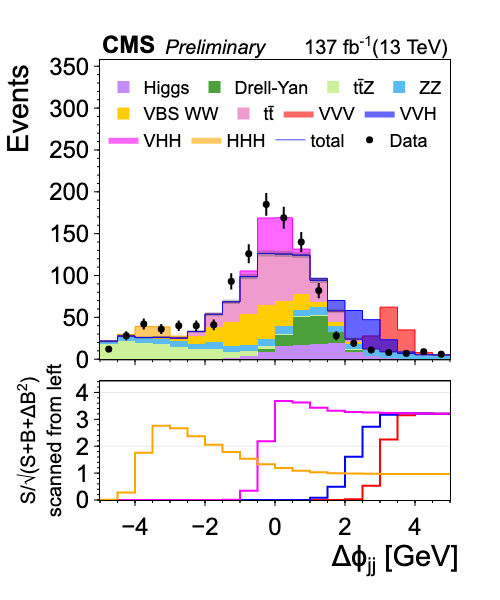
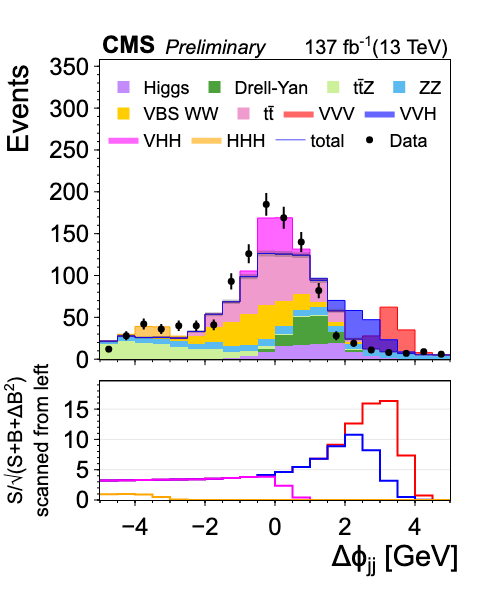
update

Changed region(s): [[0.0, 0.6, 0.9, 0.87], [0.3, 0.69, 0.45, 0.75]]

diff --git a/examples/example3/plot.html b/examples/example3/plot.html
@@ -9,7 +9,7 @@ window.PlotlyConfig = {MathJaxConfig: 'local'};
 <script src="https://cdn.plot.ly/plotly-2.3.0.min.js"></script>
 
     <div
-        id=06ca97dd-8893-42e6-93cf-f016114df091
+        id=cd3a72f4-a0c4-49c8-bc4e-8b2243d0e42e
         class="plotly-graph-div"
         style="height:600; width:500;">
     </div>
@@ -17,11 +17,11 @@ window.PlotlyConfig = {MathJaxConfig: 'local'};
         
         window.PLOTLYENV = window.PLOTLYENV || {}
         
-        if (document.getElementById('06ca97dd-8893-42e6-93cf-f016114df091')) {
+        if (document.getElementById('cd3a72f4-a0c4-49c8-bc4e-8b2243d0e42e')) {
     Plotly.newPlot(
-        '06ca97dd-8893-42e6-93cf-f016114df091',
-        [{"showlegend":false,"xaxis":"x","type":"scatter","name":"S/√(S+B+ΔB<sup>2</sup>)<br>scanned from left","yaxis":"y"},{"showlegend":false,"xaxis":"x2","type":"scatter","name":"ratiopanel_minorticks","yaxis":"y2"},{"showlegend":false,"xaxis":"x3","type":"scatter","name":"ratiopanel_unityline","yaxis":"y3"},{"showlegend":false,"xaxis":"x4","type":"scatter","name":"mainpanel_majorticks","yaxis":"y4"},{"showlegend":false,"xaxis":"x5","type":"scatter","name":"mainpanel_minorticks","yaxis":"y5"},{"showlegend":false,"mode":"lines","xaxis":"x","fillcolor":"blue","name":"VVV","fill":"","opacity":1,"yaxis":"y","marker":{"size":0},"line":{"color":"rgba(255, 0, 0, 1)","shape":"hv","width":2},"y":[0.0,0.0,0.0,0.0,0.0,0.0,0.0,0.0,0.0,0.0,0.0,0.0,0.0,0.0,0.0261922278728499,0.5269024107255872,2.2465547574718023,3.1482233016958228,3.216614910855627,3.2081616789968335,3.2081616789968335],"type":"scatter","x":[-5.0,-4.5,-4.0,-3.5,-3.0,-2.5,-2.0,-1.5,-1.0,-0.5,0.0,0.5,1.0,1.5,2.0,2.5,3.0,3.5,4.0,4.5,5.0]},{"showlegend":false,"mode":"lines","xaxis":"x","fillcolor":"blue","name":"VVH","fill":"","opacity":1,"yaxis":"y","marker":{"size":0},"line":{"color":"rgba(0, 0, 255, 1)","shape":"hv","width":2},"y":[0.0,0.0,0.0,0.0,0.0,0.0,0.0,0.0,0.0,0.0,0.0,0.0,0.08226610706861108,0.49091201744086715,1.6042739572120561,2.7255816060990257,3.172368389513496,3.2224129901579173,3.216614910855627,3.2081616789968335,3.2081616789968335],"type":"scatter","x":[-5.0,-4.5,-4.0,-3.5,-3.0,-2.5,-2.0,-1.5,-1.0,-0.5,0.0,0.5,1.0,1.5,2.0,2.5,3.0,3.5,4.0,4.5,5.0]},{"showlegend":false,"mode":"lines","xaxis":"x","fillcolor":"blue","name":"VHH","fill":"","opacity":1,"yaxis":"y","marker":{"size":0},"line":{"color":"rgba(255, 0, 255, 1)","shape":"hv","width":2},"y":[0.0,0.0,0.0,0.0,0.0,0.0,0.0,0.005954913341754136,0.348511789699801,2.1850487110868912,3.6816830059852017,3.6275323044230374,3.4277544611921282,3.31697309081667,3.2740284841062377,3.2524840168246127,3.2371106015443836,3.225638628786704,3.216614910855627,3.2081616789968335,3.2081616789968335],"type":"scatter","x":[-5.0,-4.5,-4.0,-3.5,-3.0,-2.5,-2.0,-1.5,-1.0,-0.5,0.0,0.5,1.0,1.5,2.0,2.5,3.0,3.5,4.0,4.5,5.0]},{"showlegend":false,"mode":"lines","xaxis":"x","fillcolor":"blue","name":"HHH","fill":"","opacity":1,"yaxis":"y","marker":{"size":0},"line":{"color":"rgba(255, 165, 0, 1)","shape":"hv","width":2},"y":[0.012939932784412609,0.28199520948846307,1.757421951295026,2.760117169923733,2.666271692708095,2.373934853263487,2.053638734656998,1.7864740025262404,1.5375520133814748,1.3323467750529823,1.1927698723494171,1.0904405724718547,1.0283263383576382,0.9950919272450008,0.9822085452318711,0.9757452050473836,0.9711331804633149,0.9676915886360109,0.9649844732566878,0.9624485036990499,0.9624485036990499],"type":"scatter","x":[-5.0,-4.5,-4.0,-3.5,-3.0,-2.5,-2.0,-1.5,-1.0,-0.5,0.0,0.5,1.0,1.5,2.0,2.5,3.0,3.5,4.0,4.5,5.0]},{"x":[-4.75,-4.25,-3.75,-3.25,-2.75,-2.25,-1.75,-1.25,-0.75,-0.25,0.25,0.75,1.25,1.75,2.25,2.75,3.25,3.75,4.25,4.75],"xaxis":"x4","y":[0.0,0.0,0.0,0.0,0.0,0.1,0.7000000000000001,2.0,4.3,9.0,16.1,16.8,17.8,19.0,8.4,3.3000000000000003,1.7000000000000002,0.8,0.0,0.0,0.0],"type":"bar","name":"Higgs","opacity":1.0,"yaxis":"y4","legendgroup":1,"marker":{"color":"rgba(196 , 139 , 253 , 1)"}},{"x":[-4.75,-4.25,-3.75,-3.25,-2.75,-2.25,-1.75,-1.25,-0.75,-0.25,0.25,0.75,1.25,1.75,2.25,2.75,3.25,3.75,4.25,4.75],"xaxis":"x4","y":[0.0,0.0,0.0,0.0,0.0,0.0,0.0,0.0,0.0,2.8000000000000003,12.3,33.6,34.4,13.4,3.0,0.5,0.0,0.0,0.0,0.0,0.0],"type":"bar","name":"Drell-Yan","opacity":1.0,"yaxis":"y4","legendgroup":2,"marker":{"color":"rgba(77 , 161 , 60 , 1)"}},{"x":[-4.75,-4.25,-3.75,-3.25,-2.75,-2.25,-1.75,-1.25,-0.75,-0.25,0.25,0.75,1.25,1.75,2.25,2.75,3.25,3.75,4.25,4.75],"xaxis":"x4","y":[17.6,21.5,19.700000000000003,17.900000000000002,14.100000000000001,12.3,11.8,7.0,5.300000000000001,4.0,1.8,1.5,0.5,0.2,0.2,0.1,0.0,0.0,0.0,0.0,0.0],"type":"bar","name":"tt̄Z","opacity":1.0,"yaxis":"y4","legendgroup":3,"marker":{"color":"rgba(205 , 240 , 155 , 1)"}},{"x":[-4.75,-4.25,-3.75,-3.25,-2.75,-2.25,-1.75,-1.25,-0.75,-0.25,0.25,0.75,1.25,1.75,2.25,2.75,3.25,3.75,4.25,4.75],"xaxis":"x4","y":[3.9000000000000004,6.1000000000000005,5.9,6.7,7.1000000000000005,6.2,8.200000000000001,6.6000000000000005,7.2,8.9,9.200000000000001,7.0,9.1,7.300000000000001,6.800000000000001,6.6000000000000005,6.800000000000001,6.0,5.4,5.1000000000000005,5.1000000000000005],"type":"bar","name":"ZZ","opacity":1.0,"yaxis":"y4","legendgroup":4,"marker":{"color":"rgba(91 , 187 , 241 , 1)"}},{"x":[-4.75,-4.25,-3.75,-3.25,-2.75,-2.25,-1.75,-1.25,-0.75,-0.25,0.25,0.75,1.25,1.75,2.25,2.75,3.25,3.75,4.25,4.75],"xaxis":"x4","y":[0.0,0.1,0.30000000000000004,0.9,2.8000000000000003,9.200000000000001,18.3,28.400000000000002,37.5,39.6,30.6,19.1,6.6000000000000005,4.4,1.8,0.30000000000000004,0.1,0.0,0.0,0.0,0.0],"type":"bar","name":"VBS WW","opacity":1.0,"yaxis":"y4","legendgroup":5,"marker":{"color":"rgba(255, 205, 0, 1)"}},{"x":[-4.75,-4.25,-3.75,-3.25,-2.75,-2.25,-1.75,-1.25,-0.75,-0.25,0.25,0.75,1.25,1.75,2.25,2.75,3.25,3.75,4.25,4.75],"xaxis":"x4","y":[0.0,0.1,0.0,0.6000000000000001,1.3,5.300000000000001,14.700000000000001,24.6,44.400000000000006,62.0,55.6,46.300000000000004,25.8,13.5,3.8000000000000003,1.6,0.4,0.0,0.0,0.0,0.0],"type":"bar","name":"tt̄","opacity":1.0,"yaxis":"y4","legendgroup":6,"marker":{"color":"rgba(240 , 155 , 205 , 1)"}},{"showlegend":false,"mode":"lines","xaxis":"x4","fillcolor":"blue","name":"VVV","fill":"","opacity":1,"yaxis":"y4","legendgroup":-201,"marker":{"size":0},"line":{"color":"rgba(255, 0, 0, 1)","shape":"hv","width":1},"y":[21.5,27.800000000000004,25.900000000000002,26.1,25.300000000000004,33.1,53.7,68.60000000000001,98.7,126.30000000000001,125.6,124.30000000000001,94.19999999999999,57.800000000000004,24.800000000000004,27.800000000000004,62.2,35.0,7.800000000000001,5.1000000000000005,5.1000000000000005],"type":"scatter","x":[-5.0,-4.5,-4.0,-3.5,-3.0,-2.5,-2.0,-1.5,-1.0,-0.5,0.0,0.5,1.0,1.5,2.0,2.5,3.0,3.5,4.0,4.5,5.0]},{"showlegend":"VVV","mode":"lines","xaxis":"x4","fillcolor":"rgba(255, 0, 0, 0.6)","name":"VVV","fill":"tonexty","opacity":0.7,"yaxis":"y4","marker":{"color":"rgba(255, 0, 0, 1)","size":0},"line":{"color":"blue","shape":"hv","width":0},"y":[21.5,27.800000000000004,25.900000000000002,26.1,25.300000000000004,33.1,53.7,68.60000000000001,98.7,126.30000000000001,125.6,124.30000000000001,94.19999999999999,57.800000000000004,24.000000000000004,12.400000000000002,9.0,6.8,5.4,5.1000000000000005,5.1000000000000005],"type":"scatter","x":[-5.0,-4.5,-4.0,-3.5,-3.0,-2.5,-2.0,-1.5,-1.0,-0.5,0.0,0.5,1.0,1.5,2.0,2.5,3.0,3.5,4.0,4.5,5.0]},{"showlegend":false,"mode":"lines","xaxis":"x4","fillcolor":"blue","name":"VVH","fill":"","opacity":1,"yaxis":"y4","legendgroup":-202,"marker":{"size":0},"line":{"color":"rgba(0, 0, 255, 1)","shape":"hv","width":1},"y":[21.5,27.800000000000004,25.900000000000002,26.1,25.300000000000004,33.1,53.7,68.60000000000001,98.7,126.30000000000001,125.6,124.30000000000001,96.6,70.2,58.2,47.2,23.200000000000003,8.7,5.5,5.1000000000000005,5.1000000000000005],"type":"scatter","x":[-5.0,-4.5,-4.0,-3.5,-3.0,-2.5,-2.0,-1.5,-1.0,-0.5,0.0,0.5,1.0,1.5,2.0,2.5,3.0,3.5,4.0,4.5,5.0]},{"showlegend":"VVH","mode":"lines","xaxis":"x4","fillcolor":"rgba(0, 0, 255, 0.6)","name":"VVH","fill":"tonexty","opacity":0.7,"yaxis":"y4","marker":{"color":"rgba(0, 0, 255, 1)","size":0},"line":{"color":"blue","shape":"hv","width":0},"y":[21.5,27.800000000000004,25.900000000000002,26.1,25.300000000000004,33.1,53.7,68.60000000000001,98.7,126.30000000000001,125.6,124.30000000000001,94.19999999999999,57.800000000000004,24.000000000000004,12.400000000000002,9.0,6.8,5.4,5.1000000000000005,5.1000000000000005],"type":"scatter","x":[-5.0,-4.5,-4.0,-3.5,-3.0,-2.5,-2.0,-1.5,-1.0,-0.5,0.0,0.5,1.0,1.5,2.0,2.5,3.0,3.5,4.0,4.5,5.0]},{"showlegend":false,"mode":"lines","xaxis":"x4","fillcolor":"blue","name":"VHH","fill":"","opacity":1,"yaxis":"y4","legendgroup":-203,"marker":{"size":0},"line":{"color":"rgba(255, 0, 255, 1)","shape":"hv","width":1},"y":[21.5,27.800000000000004,25.900000000000002,26.1,25.300000000000004,33.1,53.7,68.7,105.4,168.70000000000002,169.0,131.5,94.39999999999999,57.800000000000004,24.000000000000004,12.400000000000002,9.0,6.8,5.4,5.1000000000000005,5.1000000000000005],"type":"scatter","x":[-5.0,-4.5,-4.0,-3.5,-3.0,-2.5,-2.0,-1.5,-1.0,-0.5,0.0,0.5,1.0,1.5,2.0,2.5,3.0,3.5,4.0,4.5,5.0]},{"showlegend":"VHH","mode":"lines","xaxis":"x4","fillcolor":"rgba(255, 0, 255, 0.6)","name":"VHH","fill":"tonexty","opacity":0.7,"yaxis":"y4","marker":{"color":"rgba(255, 0, 255, 1)","size":0},"line":{"color":"blue","shape":"hv","width":0},"y":[21.5,27.800000000000004,25.900000000000002,26.1,25.300000000000004,33.1,53.7,68.60000000000001,98.7,126.30000000000001,125.6,124.30000000000001,94.19999999999999,57.800000000000004,24.000000000000004,12.400000000000002,9.0,6.8,5.4,5.1000000000000005,5.1000000000000005],"type":"scatter","x":[-5.0,-4.5,-4.0,-3.5,-3.0,-2.5,-2.0,-1.5,-1.0,-0.5,0.0,0.5,1.0,1.5,2.0,2.5,3.0,3.5,4.0,4.5,5.0]},{"showlegend":false,"mode":"lines","xaxis":"x4","fillcolor":"blue","name":"HHH","fill":"","opacity":1,"yaxis":"y4","legendgroup":-204,"marker":{"size":0},"line":{"color":"rgba(255, 165, 0, 1)","shape":"hv","width":1},"y":[21.56,29.720000000000006,39.160000000000004,38.64,27.520000000000003,33.1,53.7,68.60000000000001,98.7,126.30000000000001,125.6,124.30000000000001,94.19999999999999,57.800000000000004,24.000000000000004,12.400000000000002,9.0,6.8,5.4,5.1000000000000005,5.1000000000000005],"type":"scatter","x":[-5.0,-4.5,-4.0,-3.5,-3.0,-2.5,-2.0,-1.5,-1.0,-0.5,0.0,0.5,1.0,1.5,2.0,2.5,3.0,3.5,4.0,4.5,5.0]},{"showlegend":"HHH","mode":"lines","xaxis":"x4","fillcolor":"rgba(255, 165, 0, 0.6)","name":"HHH","fill":"tonexty","opacity":0.7,"yaxis":"y4","marker":{"color":"rgba(255, 165, 0, 1)","size":0},"line":{"color":"blue","shape":"hv","width":0},"y":[21.5,27.800000000000004,25.900000000000002,26.1,25.300000000000004,33.1,53.7,68.60000000000001,98.7,126.30000000000001,125.6,124.30000000000001,94.19999999999999,57.800000000000004,24.000000000000004,12.400000000000002,9.0,6.8,5.4,5.1000000000000005,5.1000000000000005],"type":"scatter","x":[-5.0,-4.5,-4.0,-3.5,-3.0,-2.5,-2.0,-1.5,-1.0,-0.5,0.0,0.5,1.0,1.5,2.0,2.5,3.0,3.5,4.0,4.5,5.0]},{"showlegend":false,"mode":"lines","xaxis":"x4","fillcolor":"blue","name":"total","fill":"","opacity":0.7,"yaxis":"y4","marker":{"size":0},"line":{"color":"blue","shape":"hv","width":1},"y":[21.5,27.800000000000004,25.900000000000002,26.1,25.300000000000004,33.1,53.7,68.60000000000001,98.7,126.30000000000001,125.6,124.30000000000001,94.19999999999999,57.800000000000004,24.000000000000004,12.400000000000002,9.0,6.8,5.4,5.1000000000000005,5.1000000000000005],"type":"scatter","x":[-5.0,-4.5,-4.0,-3.5,-3.0,-2.5,-2.0,-1.5,-1.0,-0.5,0.0,0.5,1.0,1.5,2.0,2.5,3.0,3.5,4.0,4.5,5.0]},{"showlegend":false,"mode":"lines","line":{"shape":"hv","width":0},"xaxis":"x4","x":[-5.0,-4.5,-4.0,-3.5,-3.0,-2.5,-2.0,-1.5,-1.0,-0.5,0.0,0.5,1.0,1.5,2.0,2.5,3.0,3.5,4.0,4.5,5.0],"y":[22.966287829861518,29.46733320005331,27.50934769394311,27.715549442140354,26.890597372058693,34.91934053986603,56.017326045251295,71.21916017074177,101.841655614481,129.8538711287834,129.14400902933386,127.82562051276085,97.26920185064455,60.20416305603427,25.549193338482972,13.513552872566006,9.948683298050513,7.624621125123532,6.134846922834954,5.814142842854285,5.814142842854285],"type":"scatter","name":"total +1σ","yaxis":"y4","marker":{"color":"#444"}},{"showlegend":false,"mode":"lines","xaxis":"x4","fillcolor":"rgba(68, 68, 68, 0.3)","name":"total -1σ","fill":"tonexty","yaxis":"y4","marker":{"color":"#444"},"line":{"shape":"hv","width":0},"y":[20.033712170138482,26.132666799946698,24.290652306056895,24.48445055785965,23.709402627941316,31.280659460133975,51.38267395474871,65.98083982925824,95.558344385519,122.74612887121664,122.05599097066613,120.77437948723917,91.13079814935543,55.39583694396574,22.450806661517035,11.286447127433998,8.051316701949487,5.975378874876467,4.665153077165047,4.385857157145716,4.385857157145716],"type":"scatter","x":[-5.0,-4.5,-4.0,-3.5,-3.0,-2.5,-2.0,-1.5,-1.0,-0.5,0.0,0.5,1.0,1.5,2.0,2.5,3.0,3.5,4.0,4.5,5.0]},{"showlegend":true,"mode":"lines","xaxis":"x4","fillcolor":"blue","name":"total","fill":"","opacity":0.7,"yaxis":"y4","legendgroup":-100,"marker":{"size":0},"line":{"color":"blue","width":1,"shape":"hv"},"y":[21.5,27.800000000000004,25.900000000000002,26.1,25.300000000000004,33.1,53.7,68.60000000000001,98.7,126.30000000000001,125.6,124.30000000000001,94.19999999999999,57.800000000000004,24.000000000000004,12.400000000000002,9.0,6.8,5.4,5.1000000000000005,5.1000000000000005],"type":"scatter","x":[-5.0,-4.5,-4.0,-3.5,-3.0,-2.5,-2.0,-1.5,-1.0,-0.5,0.0,0.5,1.0,1.5,2.0,2.5,3.0,3.5,4.0,4.5,5.0]},{"mode":"markers","xaxis":"x4","name":"Data","opacity":1,"error_y":{"array":[3.4641016151377544,5.291502622129181,6.48074069840786,6.0,6.324555320336759,6.324555320336759,6.4031242374328485,9.643650760992955,11.224972160321824,13.601470508735444,13.0,11.832159566199232,9.055385138137417,5.291502622129181,4.358898943540674,3.3166247903554,2.8284271247461903,2.6457513110645907,3.0,2.449489742783178],"width":0},"yaxis":"y4","legendgroup":-1,"marker":{"color":"black","size":7},"y":[12.0,28.0,42.0,36.0,40.0,40.0,41.0,93.0,126.0,185.0,169.0,140.0,82.0,28.0,19.0,11.0,8.0,7.0,9.0,6.0],"type":"scatter","x":[-4.75,-4.25,-3.75,-3.25,-2.75,-2.25,-1.75,-1.25,-0.75,-0.25,0.25,0.75,1.25,1.75,2.25,2.75,3.25,3.75,4.25,4.75]}],
-        {"xaxis":{"ticklen":5,"ticks":"outside","range":[-5.0,5.0],"domain":[0,1],"nticks":10,"color":"black","showgrid":false,"zeroline":false,"title":{"standoff":1,"text":"&nbsp;&nbsp;&nbsp;&nbsp;&nbsp;&nbsp;&nbsp;&nbsp;&nbsp;&nbsp;&nbsp;&nbsp;&nbsp;&nbsp;&nbsp;&nbsp;&nbsp;&nbsp;&nbsp;&nbsp;&nbsp;&nbsp;&nbsp;&nbsp;&nbsp;&nbsp;&nbsp;&nbsp;&nbsp;&nbsp;Δϕ<sub>jj</sub> [GeV]"},"linewidth":1,"mirror":true},"bargap":0,"template":"simple_white","height":600,"yaxis4":{"ticklen":5,"ticks":"outside","range":[0.0,357.4826469157238],"domain":[0.32,1.0],"nticks":8,"color":"black","showgrid":false,"zeroline":false,"title":{"standoff":1,"text":"&nbsp;&nbsp;&nbsp;&nbsp;&nbsp;&nbsp;&nbsp;&nbsp;&nbsp;&nbsp;&nbsp;&nbsp;&nbsp;&nbsp;&nbsp;&nbsp;&nbsp;&nbsp;&nbsp;&nbsp;&nbsp;&nbsp;&nbsp;&nbsp;&nbsp;Events"},"linewidth":1,"mirror":true,"anchor":"x4"},"yaxis":{"ticklen":5,"ticks":"outside","range":[0.0,4.4180196071822415],"domain":[0.0,0.27],"nticks":8,"color":"black","showgrid":false,"zeroline":false,"title":{"font":{"size":20},"standoff":1,"text":"S/√(S+B+ΔB<sup>2</sup>)<br>scanned from left"},"linewidth":1,"mirror":true},"yaxis2":{"showticklabels":false,"ticklen":2,"overlaying":"y","ticks":"outside","range":[0.0,4.4180196071822415],"domain":[0.0,0.27],"nticks":32,"color":"black","showgrid":false,"zeroline":false,"linewidth":1,"mirror":true,"matches":"y"},"xaxis3":{"showticklabels":false,"ticklen":2,"overlaying":"x","ticks":"outside","range":[-5.0,5.0],"domain":[0,1],"nticks":40,"color":"black","showgrid":false,"zeroline":false,"linewidth":1,"mirror":true,"matches":"x"},"legend":{"yanchor":"top","xanchor":"center","itemwidth":0,"y":0.98,"font":{"color":"black","family":"Arial","size":18},"bgcolor":"rgba(255,255,255,0.3)","tracegroupgap":0,"orientation":"h","traceorder":"grouped","x":0.5},"barmode":"stack","autosize":false,"yaxis3":{"showticklabels":false,"ticklen":2,"overlaying":"y","ticks":"outside","range":[0.0,4.4180196071822415],"domain":[0.0,0.27],"nticks":4,"color":"black","showgrid":true,"zeroline":false,"linewidth":1,"mirror":true,"matches":"y"},"yaxis5":{"showticklabels":false,"ticklen":2,"overlaying":"y4","ticks":"outside","range":[0.0,4.4180196071822415],"domain":[0.32,1.0],"nticks":40,"color":"black","showgrid":false,"zeroline":false,"linewidth":1,"mirror":true,"matches":"y4","anchor":"x5"},"xaxis4":{"showticklabels":false,"ticklen":5,"ticks":"outside","range":[-5.0,5.0],"domain":[0,1],"nticks":10,"color":"black","showgrid":false,"zeroline":false,"title":{"standoff":1,"text":""},"linewidth":1,"mirror":true,"matches":"x","anchor":"y4"},"font":{"family":"Arial","size":24},"annotations":[{"yanchor":"bottom","xanchor":"left","y":1.0,"font":{"color":"black","size":24},"yref":"paper","showarrow":false,"text":"<b>CMS</b>","xref":"paper","x":0.0},{"yanchor":"bottom","xanchor":"left","y":1.0,"font":{"color":"black","size":20},"yref":"paper","showarrow":false,"text":"<i>Preliminary</i>","xref":"paper","x":0.18},{"yanchor":"bottom","xanchor":"right","y":1.0,"font":{"color":"black","size":20},"yref":"paper","showarrow":false,"text":"137 fb<sup>-1</sup>(13 TeV)","xref":"paper","x":1.0}],"xaxis2":{"showticklabels":false,"ticklen":2,"overlaying":"x","ticks":"outside","range":[-5.0,5.0],"domain":[0,1],"nticks":40,"color":"black","showgrid":false,"zeroline":false,"linewidth":1,"mirror":true,"matches":"x"},"margin":{"l":100,"b":100,"r":50,"t":60},"xaxis5":{"showticklabels":false,"ticklen":2,"overlaying":"x4","ticks":"outside","range":[-5.0,5.0],"domain":[0,1],"nticks":50,"color":"black","showgrid":false,"zeroline":false,"linewidth":1,"mirror":true,"matches":"x","anchor":"y4"},"width":500},
+        'cd3a72f4-a0c4-49c8-bc4e-8b2243d0e42e',
+        [{"showlegend":false,"xaxis":"x","type":"scatter","name":"S/√(S+B+ΔB<sup>2</sup>)<br>scanned from left","yaxis":"y"},{"showlegend":false,"xaxis":"x2","type":"scatter","name":"ratiopanel_minorticks","yaxis":"y2"},{"showlegend":false,"xaxis":"x3","type":"scatter","name":"ratiopanel_unityline","yaxis":"y3"},{"showlegend":false,"xaxis":"x4","type":"scatter","name":"mainpanel_majorticks","yaxis":"y4"},{"showlegend":false,"xaxis":"x5","type":"scatter","name":"mainpanel_minorticks","yaxis":"y5"},{"showlegend":false,"mode":"lines","xaxis":"x","fillcolor":"blue","name":"VVV","fill":"","opacity":1,"yaxis":"y","marker":{"size":0},"line":{"color":"rgba(255, 0, 0, 1)","shape":"hv","width":2},"y":[3.2081616789968335,3.244257676704409,3.292788950072114,3.340020066900843,3.3897331317309956,3.4401045807689075,3.5095281423214892,3.6316844790130376,3.8080388775336087,4.113798400762006,4.639384821243733,5.431254465935686,6.8247064799516615,9.10975037348554,12.628920507068042,15.94616265310163,16.34053021650932,7.356959663565479,0.7406560798180413,0.0,0.0],"type":"scatter","x":[-5.0,-4.5,-4.0,-3.5,-3.0,-2.5,-2.0,-1.5,-1.0,-0.5,0.0,0.5,1.0,1.5,2.0,2.5,3.0,3.5,4.0,4.5,5.0]},{"showlegend":false,"mode":"lines","xaxis":"x","fillcolor":"blue","name":"VVH","fill":"","opacity":1,"yaxis":"y","marker":{"size":0},"line":{"color":"rgba(0, 0, 255, 1)","shape":"hv","width":2},"y":[3.208161678996834,3.2442576767044096,3.2927889500721146,3.3400200669008435,3.389733131730996,3.440104580768908,3.5095281423214897,3.631684479013038,3.8080388775336096,4.113798400762007,4.639384821243734,5.4312544659356865,6.824706479951662,8.891116364521888,10.759840272021972,8.198127976897007,3.1589091826664792,0.48084703683434504,0.030860669992418384,0.0,0.0],"type":"scatter","x":[-5.0,-4.5,-4.0,-3.5,-3.0,-2.5,-2.0,-1.5,-1.0,-0.5,0.0,0.5,1.0,1.5,2.0,2.5,3.0,3.5,4.0,4.5,5.0]},{"showlegend":false,"mode":"lines","xaxis":"x","fillcolor":"blue","name":"VHH","fill":"","opacity":1,"yaxis":"y","marker":{"size":0},"line":{"color":"rgba(255, 0, 255, 1)","shape":"hv","width":2},"y":[3.2081616789968335,3.244257676704409,3.292788950072114,3.340020066900843,3.3897331317309956,3.4401045807689075,3.5095281423214892,3.6316844790130376,3.8042308386560753,3.83406010951019,2.3568074891918163,0.4019128304792407,0.013649412959903321,0.0,0.0,0.0,0.0,0.0,0.0,0.0,0.0],"type":"scatter","x":[-5.0,-4.5,-4.0,-3.5,-3.0,-2.5,-2.0,-1.5,-1.0,-0.5,0.0,0.5,1.0,1.5,2.0,2.5,3.0,3.5,4.0,4.5,5.0]},{"showlegend":false,"mode":"lines","xaxis":"x","fillcolor":"blue","name":"HHH","fill":"","opacity":1,"yaxis":"y","marker":{"size":0},"line":{"color":"rgba(255, 165, 0, 1)","shape":"hv","width":2},"y":[0.9624485036990499,0.9713307484053,0.9226394638102061,0.4929869618745643,0.07525207552442809,0.0,0.0,0.0,0.0,0.0,0.0,0.0,0.0,0.0,0.0,0.0,0.0,0.0,0.0,0.0,0.0],"type":"scatter","x":[-5.0,-4.5,-4.0,-3.5,-3.0,-2.5,-2.0,-1.5,-1.0,-0.5,0.0,0.5,1.0,1.5,2.0,2.5,3.0,3.5,4.0,4.5,5.0]},{"x":[-4.75,-4.25,-3.75,-3.25,-2.75,-2.25,-1.75,-1.25,-0.75,-0.25,0.25,0.75,1.25,1.75,2.25,2.75,3.25,3.75,4.25,4.75],"xaxis":"x4","y":[0.0,0.0,0.0,0.0,0.0,0.1,0.7000000000000001,2.0,4.3,9.0,16.1,16.8,17.8,19.0,8.4,3.3000000000000003,1.7000000000000002,0.8,0.0,0.0,0.0],"type":"bar","name":"Higgs","opacity":1.0,"yaxis":"y4","legendgroup":1,"marker":{"color":"rgba(196 , 139 , 253 , 1)"}},{"x":[-4.75,-4.25,-3.75,-3.25,-2.75,-2.25,-1.75,-1.25,-0.75,-0.25,0.25,0.75,1.25,1.75,2.25,2.75,3.25,3.75,4.25,4.75],"xaxis":"x4","y":[0.0,0.0,0.0,0.0,0.0,0.0,0.0,0.0,0.0,2.8000000000000003,12.3,33.6,34.4,13.4,3.0,0.5,0.0,0.0,0.0,0.0,0.0],"type":"bar","name":"Drell-Yan","opacity":1.0,"yaxis":"y4","legendgroup":2,"marker":{"color":"rgba(77 , 161 , 60 , 1)"}},{"x":[-4.75,-4.25,-3.75,-3.25,-2.75,-2.25,-1.75,-1.25,-0.75,-0.25,0.25,0.75,1.25,1.75,2.25,2.75,3.25,3.75,4.25,4.75],"xaxis":"x4","y":[17.6,21.5,19.700000000000003,17.900000000000002,14.100000000000001,12.3,11.8,7.0,5.300000000000001,4.0,1.8,1.5,0.5,0.2,0.2,0.1,0.0,0.0,0.0,0.0,0.0],"type":"bar","name":"tt̄Z","opacity":1.0,"yaxis":"y4","legendgroup":3,"marker":{"color":"rgba(205 , 240 , 155 , 1)"}},{"x":[-4.75,-4.25,-3.75,-3.25,-2.75,-2.25,-1.75,-1.25,-0.75,-0.25,0.25,0.75,1.25,1.75,2.25,2.75,3.25,3.75,4.25,4.75],"xaxis":"x4","y":[3.9000000000000004,6.1000000000000005,5.9,6.7,7.1000000000000005,6.2,8.200000000000001,6.6000000000000005,7.2,8.9,9.200000000000001,7.0,9.1,7.300000000000001,6.800000000000001,6.6000000000000005,6.800000000000001,6.0,5.4,5.1000000000000005,5.1000000000000005],"type":"bar","name":"ZZ","opacity":1.0,"yaxis":"y4","legendgroup":4,"marker":{"color":"rgba(91 , 187 , 241 , 1)"}},{"x":[-4.75,-4.25,-3.75,-3.25,-2.75,-2.25,-1.75,-1.25,-0.75,-0.25,0.25,0.75,1.25,1.75,2.25,2.75,3.25,3.75,4.25,4.75],"xaxis":"x4","y":[0.0,0.1,0.30000000000000004,0.9,2.8000000000000003,9.200000000000001,18.3,28.400000000000002,37.5,39.6,30.6,19.1,6.6000000000000005,4.4,1.8,0.30000000000000004,0.1,0.0,0.0,0.0,0.0],"type":"bar","name":"VBS WW","opacity":1.0,"yaxis":"y4","legendgroup":5,"marker":{"color":"rgba(255, 205, 0, 1)"}},{"x":[-4.75,-4.25,-3.75,-3.25,-2.75,-2.25,-1.75,-1.25,-0.75,-0.25,0.25,0.75,1.25,1.75,2.25,2.75,3.25,3.75,4.25,4.75],"xaxis":"x4","y":[0.0,0.1,0.0,0.6000000000000001,1.3,5.300000000000001,14.700000000000001,24.6,44.400000000000006,62.0,55.6,46.300000000000004,25.8,13.5,3.8000000000000003,1.6,0.4,0.0,0.0,0.0,0.0],"type":"bar","name":"tt̄","opacity":1.0,"yaxis":"y4","legendgroup":6,"marker":{"color":"rgba(240 , 155 , 205 , 1)"}},{"showlegend":false,"mode":"lines","xaxis":"x4","fillcolor":"blue","name":"VVV","fill":"","opacity":1,"yaxis":"y4","legendgroup":-201,"marker":{"size":0},"line":{"color":"rgba(255, 0, 0, 1)","shape":"hv","width":1},"y":[21.5,27.800000000000004,25.900000000000002,26.1,25.300000000000004,33.1,53.7,68.60000000000001,98.7,126.30000000000001,125.6,124.30000000000001,94.19999999999999,57.800000000000004,24.800000000000004,27.800000000000004,62.2,35.0,7.800000000000001,5.1000000000000005,5.1000000000000005],"type":"scatter","x":[-5.0,-4.5,-4.0,-3.5,-3.0,-2.5,-2.0,-1.5,-1.0,-0.5,0.0,0.5,1.0,1.5,2.0,2.5,3.0,3.5,4.0,4.5,5.0]},{"showlegend":"VVV","mode":"lines","xaxis":"x4","fillcolor":"rgba(255, 0, 0, 0.6)","name":"VVV","fill":"tonexty","opacity":0.7,"yaxis":"y4","marker":{"color":"rgba(255, 0, 0, 1)","size":0},"line":{"color":"blue","shape":"hv","width":0},"y":[21.5,27.800000000000004,25.900000000000002,26.1,25.300000000000004,33.1,53.7,68.60000000000001,98.7,126.30000000000001,125.6,124.30000000000001,94.19999999999999,57.800000000000004,24.000000000000004,12.400000000000002,9.0,6.8,5.4,5.1000000000000005,5.1000000000000005],"type":"scatter","x":[-5.0,-4.5,-4.0,-3.5,-3.0,-2.5,-2.0,-1.5,-1.0,-0.5,0.0,0.5,1.0,1.5,2.0,2.5,3.0,3.5,4.0,4.5,5.0]},{"showlegend":false,"mode":"lines","xaxis":"x4","fillcolor":"blue","name":"VVH","fill":"","opacity":1,"yaxis":"y4","legendgroup":-202,"marker":{"size":0},"line":{"color":"rgba(0, 0, 255, 1)","shape":"hv","width":1},"y":[21.5,27.800000000000004,25.900000000000002,26.1,25.300000000000004,33.1,53.7,68.60000000000001,98.7,126.30000000000001,125.6,124.30000000000001,96.6,70.2,58.2,47.2,23.200000000000003,8.7,5.5,5.1000000000000005,5.1000000000000005],"type":"scatter","x":[-5.0,-4.5,-4.0,-3.5,-3.0,-2.5,-2.0,-1.5,-1.0,-0.5,0.0,0.5,1.0,1.5,2.0,2.5,3.0,3.5,4.0,4.5,5.0]},{"showlegend":"VVH","mode":"lines","xaxis":"x4","fillcolor":"rgba(0, 0, 255, 0.6)","name":"VVH","fill":"tonexty","opacity":0.7,"yaxis":"y4","marker":{"color":"rgba(0, 0, 255, 1)","size":0},"line":{"color":"blue","shape":"hv","width":0},"y":[21.5,27.800000000000004,25.900000000000002,26.1,25.300000000000004,33.1,53.7,68.60000000000001,98.7,126.30000000000001,125.6,124.30000000000001,94.19999999999999,57.800000000000004,24.000000000000004,12.400000000000002,9.0,6.8,5.4,5.1000000000000005,5.1000000000000005],"type":"scatter","x":[-5.0,-4.5,-4.0,-3.5,-3.0,-2.5,-2.0,-1.5,-1.0,-0.5,0.0,0.5,1.0,1.5,2.0,2.5,3.0,3.5,4.0,4.5,5.0]},{"showlegend":false,"mode":"lines","xaxis":"x4","fillcolor":"blue","name":"VHH","fill":"","opacity":1,"yaxis":"y4","legendgroup":-203,"marker":{"size":0},"line":{"color":"rgba(255, 0, 255, 1)","shape":"hv","width":1},"y":[21.5,27.800000000000004,25.900000000000002,26.1,25.300000000000004,33.1,53.7,68.7,105.4,168.70000000000002,169.0,131.5,94.39999999999999,57.800000000000004,24.000000000000004,12.400000000000002,9.0,6.8,5.4,5.1000000000000005,5.1000000000000005],"type":"scatter","x":[-5.0,-4.5,-4.0,-3.5,-3.0,-2.5,-2.0,-1.5,-1.0,-0.5,0.0,0.5,1.0,1.5,2.0,2.5,3.0,3.5,4.0,4.5,5.0]},{"showlegend":"VHH","mode":"lines","xaxis":"x4","fillcolor":"rgba(255, 0, 255, 0.6)","name":"VHH","fill":"tonexty","opacity":0.7,"yaxis":"y4","marker":{"color":"rgba(255, 0, 255, 1)","size":0},"line":{"color":"blue","shape":"hv","width":0},"y":[21.5,27.800000000000004,25.900000000000002,26.1,25.300000000000004,33.1,53.7,68.60000000000001,98.7,126.30000000000001,125.6,124.30000000000001,94.19999999999999,57.800000000000004,24.000000000000004,12.400000000000002,9.0,6.8,5.4,5.1000000000000005,5.1000000000000005],"type":"scatter","x":[-5.0,-4.5,-4.0,-3.5,-3.0,-2.5,-2.0,-1.5,-1.0,-0.5,0.0,0.5,1.0,1.5,2.0,2.5,3.0,3.5,4.0,4.5,5.0]},{"showlegend":false,"mode":"lines","xaxis":"x4","fillcolor":"blue","name":"HHH","fill":"","opacity":1,"yaxis":"y4","legendgroup":-204,"marker":{"size":0},"line":{"color":"rgba(255, 165, 0, 1)","shape":"hv","width":1},"y":[21.56,29.720000000000006,39.160000000000004,38.64,27.520000000000003,33.1,53.7,68.60000000000001,98.7,126.30000000000001,125.6,124.30000000000001,94.19999999999999,57.800000000000004,24.000000000000004,12.400000000000002,9.0,6.8,5.4,5.1000000000000005,5.1000000000000005],"type":"scatter","x":[-5.0,-4.5,-4.0,-3.5,-3.0,-2.5,-2.0,-1.5,-1.0,-0.5,0.0,0.5,1.0,1.5,2.0,2.5,3.0,3.5,4.0,4.5,5.0]},{"showlegend":"HHH","mode":"lines","xaxis":"x4","fillcolor":"rgba(255, 165, 0, 0.6)","name":"HHH","fill":"tonexty","opacity":0.7,"yaxis":"y4","marker":{"color":"rgba(255, 165, 0, 1)","size":0},"line":{"color":"blue","shape":"hv","width":0},"y":[21.5,27.800000000000004,25.900000000000002,26.1,25.300000000000004,33.1,53.7,68.60000000000001,98.7,126.30000000000001,125.6,124.30000000000001,94.19999999999999,57.800000000000004,24.000000000000004,12.400000000000002,9.0,6.8,5.4,5.1000000000000005,5.1000000000000005],"type":"scatter","x":[-5.0,-4.5,-4.0,-3.5,-3.0,-2.5,-2.0,-1.5,-1.0,-0.5,0.0,0.5,1.0,1.5,2.0,2.5,3.0,3.5,4.0,4.5,5.0]},{"showlegend":false,"mode":"lines","xaxis":"x4","fillcolor":"blue","name":"total","fill":"","opacity":0.7,"yaxis":"y4","marker":{"size":0},"line":{"color":"blue","shape":"hv","width":1},"y":[21.5,27.800000000000004,25.900000000000002,26.1,25.300000000000004,33.1,53.7,68.60000000000001,98.7,126.30000000000001,125.6,124.30000000000001,94.19999999999999,57.800000000000004,24.000000000000004,12.400000000000002,9.0,6.8,5.4,5.1000000000000005,5.1000000000000005],"type":"scatter","x":[-5.0,-4.5,-4.0,-3.5,-3.0,-2.5,-2.0,-1.5,-1.0,-0.5,0.0,0.5,1.0,1.5,2.0,2.5,3.0,3.5,4.0,4.5,5.0]},{"showlegend":false,"mode":"lines","line":{"shape":"hv","width":0},"xaxis":"x4","x":[-5.0,-4.5,-4.0,-3.5,-3.0,-2.5,-2.0,-1.5,-1.0,-0.5,0.0,0.5,1.0,1.5,2.0,2.5,3.0,3.5,4.0,4.5,5.0],"y":[22.966287829861518,29.46733320005331,27.50934769394311,27.715549442140354,26.890597372058693,34.91934053986603,56.017326045251295,71.21916017074177,101.841655614481,129.8538711287834,129.14400902933386,127.82562051276085,97.26920185064455,60.20416305603427,25.549193338482972,13.513552872566006,9.948683298050513,7.624621125123532,6.134846922834954,5.814142842854285,5.814142842854285],"type":"scatter","name":"total +1σ","yaxis":"y4","marker":{"color":"#444"}},{"showlegend":false,"mode":"lines","xaxis":"x4","fillcolor":"rgba(68, 68, 68, 0.3)","name":"total -1σ","fill":"tonexty","yaxis":"y4","marker":{"color":"#444"},"line":{"shape":"hv","width":0},"y":[20.033712170138482,26.132666799946698,24.290652306056895,24.48445055785965,23.709402627941316,31.280659460133975,51.38267395474871,65.98083982925824,95.558344385519,122.74612887121664,122.05599097066613,120.77437948723917,91.13079814935543,55.39583694396574,22.450806661517035,11.286447127433998,8.051316701949487,5.975378874876467,4.665153077165047,4.385857157145716,4.385857157145716],"type":"scatter","x":[-5.0,-4.5,-4.0,-3.5,-3.0,-2.5,-2.0,-1.5,-1.0,-0.5,0.0,0.5,1.0,1.5,2.0,2.5,3.0,3.5,4.0,4.5,5.0]},{"showlegend":true,"mode":"lines","xaxis":"x4","fillcolor":"blue","name":"total","fill":"","opacity":0.7,"yaxis":"y4","legendgroup":-100,"marker":{"size":0},"line":{"color":"blue","width":1,"shape":"hv"},"y":[21.5,27.800000000000004,25.900000000000002,26.1,25.300000000000004,33.1,53.7,68.60000000000001,98.7,126.30000000000001,125.6,124.30000000000001,94.19999999999999,57.800000000000004,24.000000000000004,12.400000000000002,9.0,6.8,5.4,5.1000000000000005,5.1000000000000005],"type":"scatter","x":[-5.0,-4.5,-4.0,-3.5,-3.0,-2.5,-2.0,-1.5,-1.0,-0.5,0.0,0.5,1.0,1.5,2.0,2.5,3.0,3.5,4.0,4.5,5.0]},{"mode":"markers","xaxis":"x4","name":"Data","opacity":1,"error_y":{"array":[3.4641016151377544,5.291502622129181,6.48074069840786,6.0,6.324555320336759,6.324555320336759,6.4031242374328485,9.643650760992955,11.224972160321824,13.601470508735444,13.0,11.832159566199232,9.055385138137417,5.291502622129181,4.358898943540674,3.3166247903554,2.8284271247461903,2.6457513110645907,3.0,2.449489742783178],"width":0},"yaxis":"y4","legendgroup":-1,"marker":{"color":"black","size":7},"y":[12.0,28.0,42.0,36.0,40.0,40.0,41.0,93.0,126.0,185.0,169.0,140.0,82.0,28.0,19.0,11.0,8.0,7.0,9.0,6.0],"type":"scatter","x":[-4.75,-4.25,-3.75,-3.25,-2.75,-2.25,-1.75,-1.25,-0.75,-0.25,0.25,0.75,1.25,1.75,2.25,2.75,3.25,3.75,4.25,4.75]}],
+        {"xaxis":{"ticklen":5,"ticks":"outside","range":[-5.0,5.0],"domain":[0,1],"nticks":10,"color":"black","showgrid":false,"zeroline":false,"title":{"standoff":1,"text":"&nbsp;&nbsp;&nbsp;&nbsp;&nbsp;&nbsp;&nbsp;&nbsp;&nbsp;&nbsp;&nbsp;&nbsp;&nbsp;&nbsp;&nbsp;&nbsp;&nbsp;&nbsp;&nbsp;&nbsp;&nbsp;&nbsp;&nbsp;&nbsp;&nbsp;&nbsp;&nbsp;&nbsp;&nbsp;&nbsp;Δϕ<sub>jj</sub> [GeV]"},"linewidth":1,"mirror":true},"bargap":0,"template":"simple_white","height":600,"yaxis4":{"ticklen":5,"ticks":"outside","range":[0.0,357.4826469157238],"domain":[0.32,1.0],"nticks":8,"color":"black","showgrid":false,"zeroline":false,"title":{"standoff":1,"text":"&nbsp;&nbsp;&nbsp;&nbsp;&nbsp;&nbsp;&nbsp;&nbsp;&nbsp;&nbsp;&nbsp;&nbsp;&nbsp;&nbsp;&nbsp;&nbsp;&nbsp;&nbsp;&nbsp;&nbsp;&nbsp;&nbsp;&nbsp;&nbsp;&nbsp;Events"},"linewidth":1,"mirror":true,"anchor":"x4"},"yaxis":{"ticklen":5,"ticks":"outside","range":[0.0,19.60863625981118],"domain":[0.0,0.27],"nticks":8,"color":"black","showgrid":false,"zeroline":false,"title":{"font":{"size":20},"standoff":1,"text":"S/√(S+B+ΔB<sup>2</sup>)<br>scanned from left"},"linewidth":1,"mirror":true},"yaxis2":{"showticklabels":false,"ticklen":2,"overlaying":"y","ticks":"outside","range":[0.0,19.60863625981118],"domain":[0.0,0.27],"nticks":32,"color":"black","showgrid":false,"zeroline":false,"linewidth":1,"mirror":true,"matches":"y"},"xaxis3":{"showticklabels":false,"ticklen":2,"overlaying":"x","ticks":"outside","range":[-5.0,5.0],"domain":[0,1],"nticks":40,"color":"black","showgrid":false,"zeroline":false,"linewidth":1,"mirror":true,"matches":"x"},"legend":{"yanchor":"top","xanchor":"center","itemwidth":0,"y":0.98,"font":{"color":"black","family":"Arial","size":18},"bgcolor":"rgba(255,255,255,0.3)","tracegroupgap":0,"orientation":"h","traceorder":"grouped","x":0.5},"barmode":"stack","autosize":false,"yaxis3":{"showticklabels":false,"ticklen":2,"overlaying":"y","ticks":"outside","range":[0.0,19.60863625981118],"domain":[0.0,0.27],"nticks":4,"color":"black","showgrid":true,"zeroline":false,"linewidth":1,"mirror":true,"matches":"y"},"yaxis5":{"showticklabels":false,"ticklen":2,"overlaying":"y4","ticks":"outside","range":[0.0,19.60863625981118],"domain":[0.32,1.0],"nticks":40,"color":"black","showgrid":false,"zeroline":false,"linewidth":1,"mirror":true,"matches":"y4","anchor":"x5"},"xaxis4":{"showticklabels":false,"ticklen":5,"ticks":"outside","range":[-5.0,5.0],"domain":[0,1],"nticks":10,"color":"black","showgrid":false,"zeroline":false,"title":{"standoff":1,"text":""},"linewidth":1,"mirror":true,"matches":"x","anchor":"y4"},"font":{"family":"Arial","size":24},"annotations":[{"yanchor":"bottom","xanchor":"left","y":1.0,"font":{"color":"black","size":24},"yref":"paper","showarrow":false,"text":"<b>CMS</b>","xref":"paper","x":0.0},{"yanchor":"bottom","xanchor":"left","y":1.0,"font":{"color":"black","size":20},"yref":"paper","showarrow":false,"text":"<i>Preliminary</i>","xref":"paper","x":0.18},{"yanchor":"bottom","xanchor":"right","y":1.0,"font":{"color":"black","size":20},"yref":"paper","showarrow":false,"text":"137 fb<sup>-1</sup>(13 TeV)","xref":"paper","x":1.0}],"xaxis2":{"showticklabels":false,"ticklen":2,"overlaying":"x","ticks":"outside","range":[-5.0,5.0],"domain":[0,1],"nticks":40,"color":"black","showgrid":false,"zeroline":false,"linewidth":1,"mirror":true,"matches":"x"},"margin":{"l":100,"b":100,"r":50,"t":60},"xaxis5":{"showticklabels":false,"ticklen":2,"overlaying":"x4","ticks":"outside","range":[-5.0,5.0],"domain":[0,1],"nticks":50,"color":"black","showgrid":false,"zeroline":false,"linewidth":1,"mirror":true,"matches":"x","anchor":"y4"},"width":500},
         {"editable":false,"responsive":true,"staticPlot":false,"scrollZoom":true},
     )
 }
